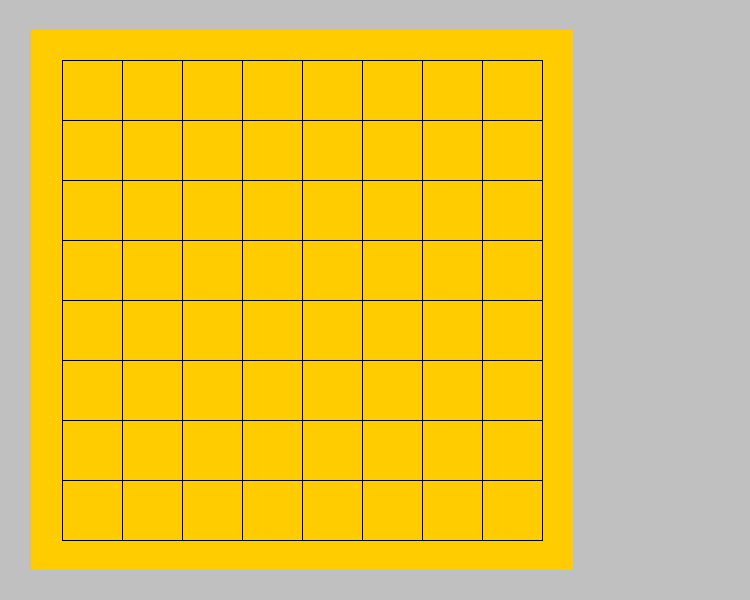
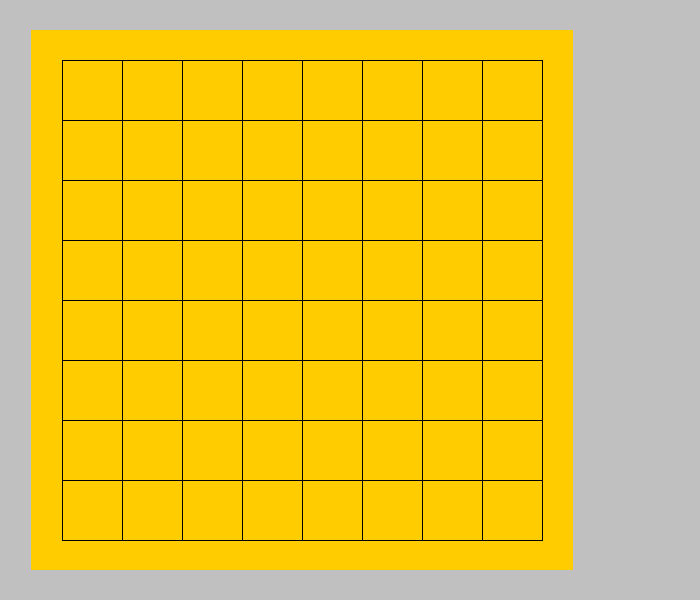
レイアウトを再度調整

diff --git a/index.html b/index.html
@@ -9,8 +9,7 @@
 <style TYPE="text/css">
 #area {
 	position: relative;
-	max-width: 750px;
-	max-height: 750px;
+	width: 700px;
 }
 </style>
 <title>Drag and Drop</title>
